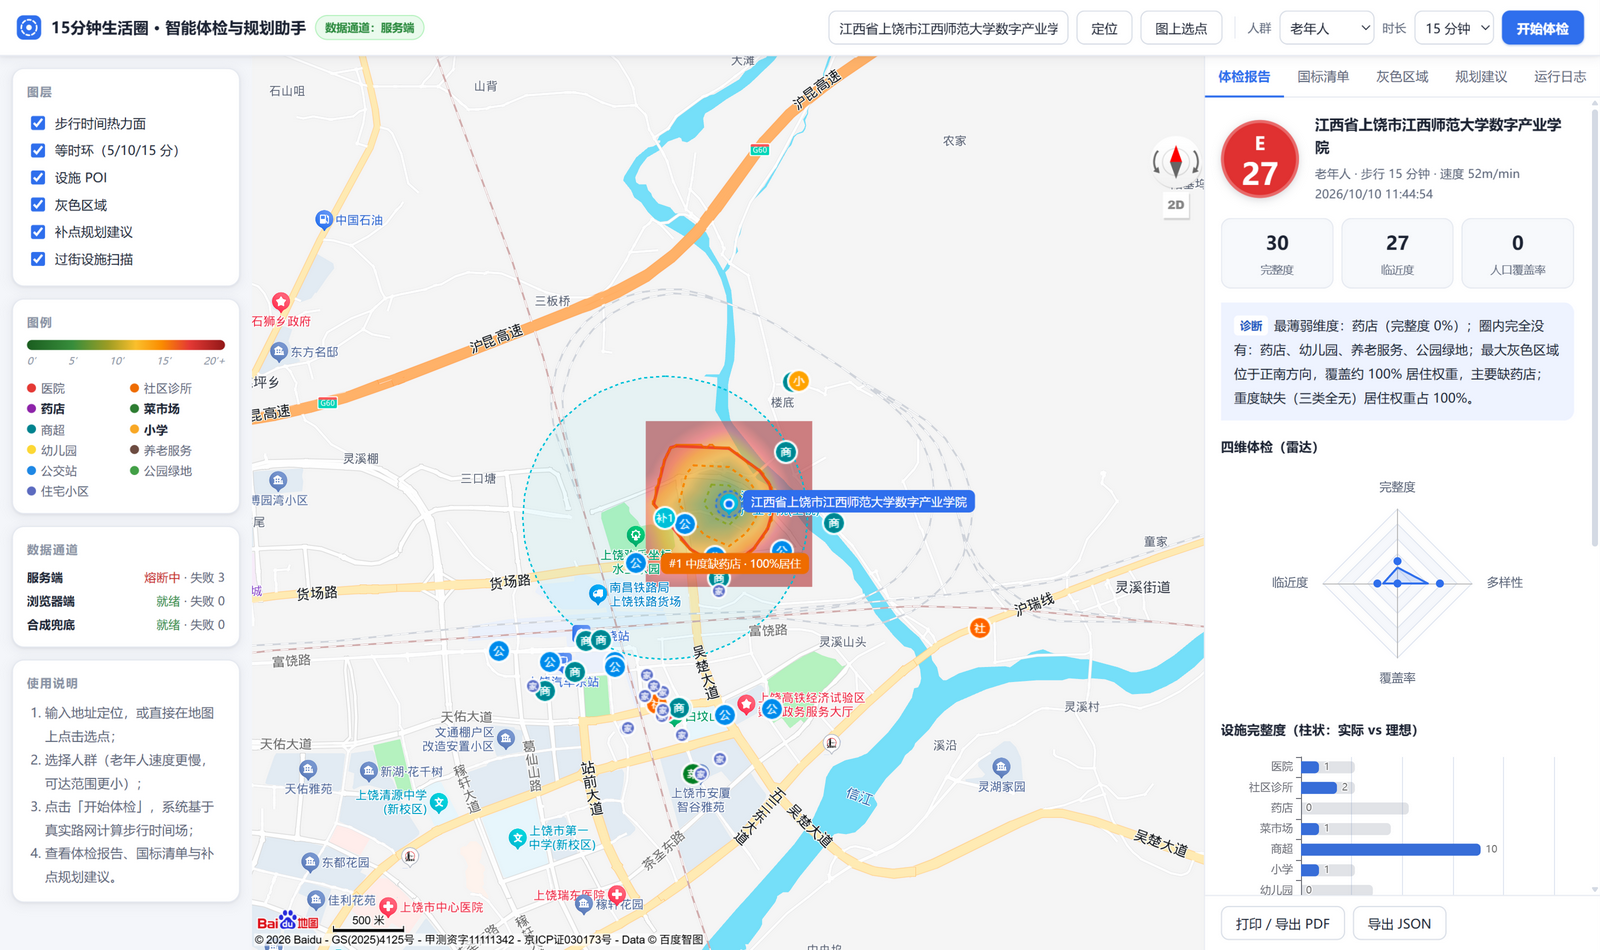
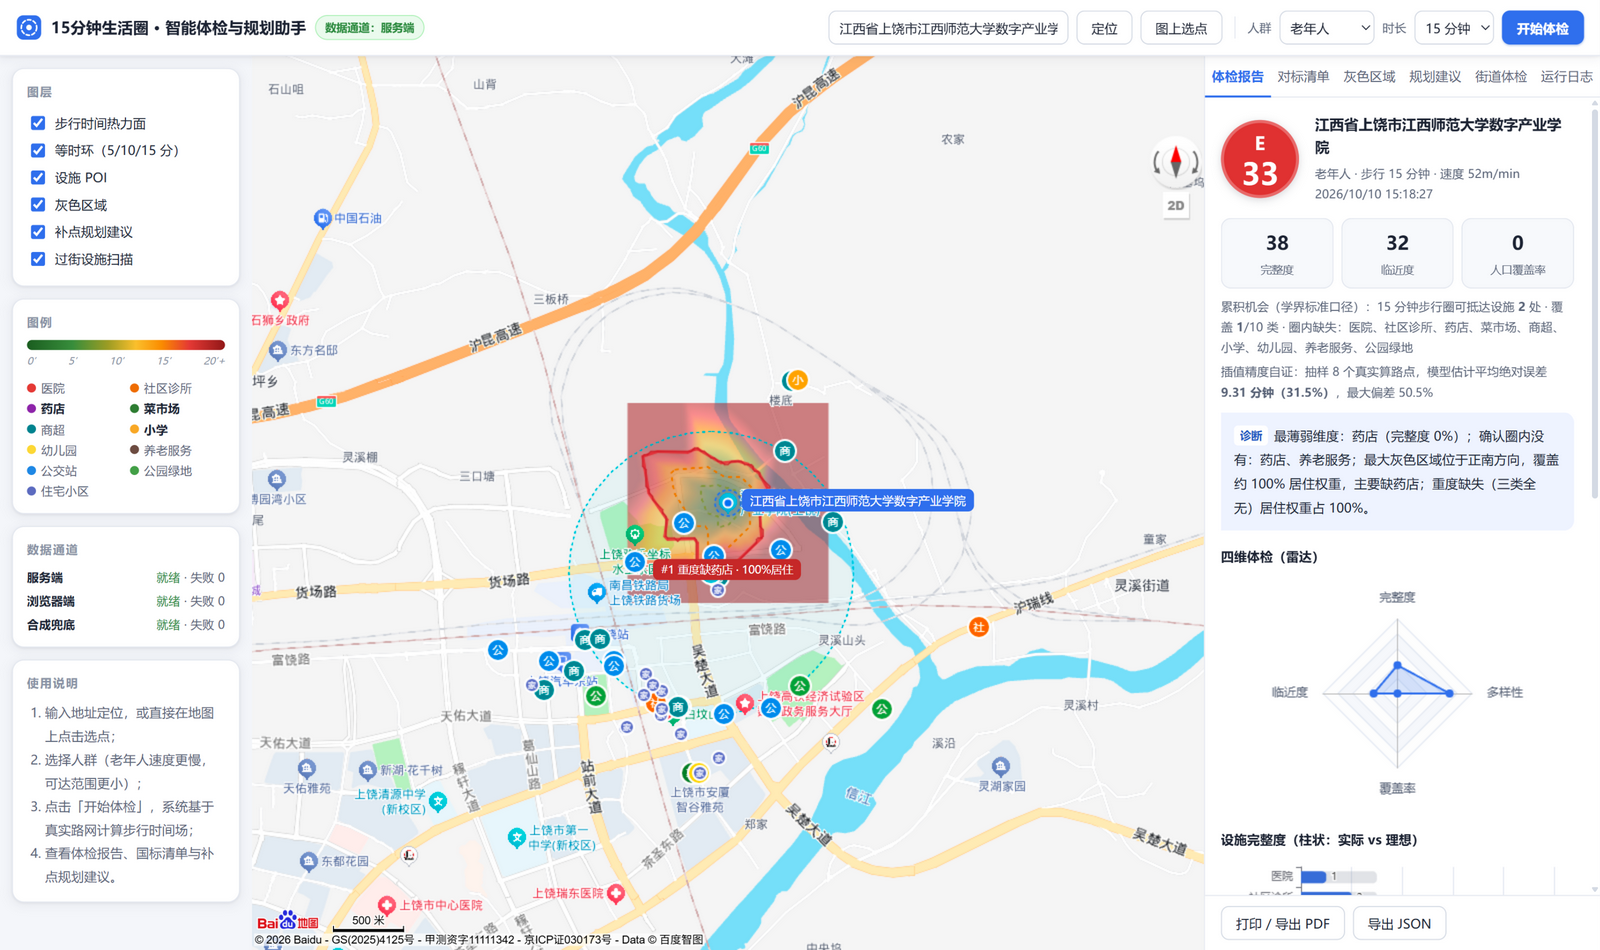
docs: 报告正式口径统一为服务端通道(企业配额AK)
- 报告头/§3.1/3.2/3.3 更新为服务端通道正式数字(A成人E33/A老年人E33/B C68, 累积机会入表)
- §3.4 通道对比表更新: 正式口径已固定, 浏览器通道为降级备选
- §3.6 性能双通道对比表
- 实测步骤补三口径说明, 对标清单命名对齐

diff --git a/docs/COMPARISON_TEST.md b/docs/COMPARISON_TEST.md
@@ -2,18 +2,18 @@
 
 > 对应赛题交付要求「针对特定社区的真实对比测试报告」。
 > 测试时间：2026-10-10 ｜ 测试环境：Windows 11 · Chrome（内嵌浏览器视口 1600×950）· 本地部署（localhost:8807）
-> 数据通道：**浏览器端通道**（GL JS API：LocalSearch 检索 / Geocoder 编码 / WalkingRoute 算路），
-> 且为**配额友好版关键词配置**（每类 1 个关键词，菜市场 2 个）+ 个人 AK 限流环境。
-> 服务端通道（48 向批量算路）在测试窗口处于 AK IP 白名单传播期，恢复后需补测一组（§3.4 保留占位）。
-> ⚠ 口径说明：本报告所有数字与仓库 `docs/data/screenshots/` 三张截图为同一版本系统（关键词精简 + POI 缓存 v2）的实测结果。
+> 数据通道（正式口径）：**服务端通道**（企业配额 AK · place v2 检索 · routematrix v2 48 向批量算路 ·
+> 服务端缓存与限流）。浏览器端通道（GL SDK）数据见 §3.4 通道对比。
+> 口径说明：本报告所有数字与仓库 `docs/data/screenshots/` 截图均为同一版本系统
+> （关键词精简 + POI 缓存 v2 + 绕行系数上限 4.0）的服务端通道实测结果。
 
 ## 1. 测试对象
 
 | 项 | 样例 A（主样例） | 样例 B（对照样例） |
 | --- | --- | --- |
 | 社区 | 江西师范大学数字产业学院（上饶市高铁经济试验区） | 上饶市信州区中心广场（老城核心） |
-| 中心点坐标（BD-09） | 28.50509, 118.02389 | 地理编码获得（GL Geocoder） |
-| 中心点来源 | 地址输入 → 地理编码（GL Geocoder） | 地址输入「上饶市信州区中心广场」→ 地理编码 |
+| 中心点坐标（BD-09） | 28.50509, 118.02389 | 地理编码获得（服务端 geocoding v3） |
+| 中心点来源 | 地址输入 → 地理编码（服务端 geocoding v3，城市提示「上饶市」） | 地址输入「上饶市信州区中心广场」→ 地理编码 |
 | 选点理由 | 新建校区，规划配套尚未成熟，预期存在真实服务盲区 | 成熟城区，预期各类设施齐备，用于验证系统区分度 |
 | 测试日期 | 2026-10-10 | 2026-10-10 |
 
@@ -22,26 +22,24 @@
 1. `npm run dev`（本地为 `PORT=8807 npm start` + 静态托管）启动应用；
 2. 输入样例地址定位 → 选择人群 → 点击「开始体检」；
 3. 记录「运行日志」页签中每步通道、耗时、探针成功率；
-4. 导出报告并核对：分类明细、灰色斑块、规划建议、国标清单；
+4. 导出报告并核对：分类明细（含三口径：周边检索 / 圈内可达 / 直线盲区）、灰色斑块、规划建议、参考对标清单；
 5. 切换「老年人」视角重复，记录可达范围收缩与结论变化；
 6. 与人工常识核对：样例 A 为在建新校区（周边为工业区与信江），样例 B 为上饶老城核心（步行可达多条商业街）。
 
 ## 3. 实测结果
 
-### 3.1 系统输出概览
+### 3.1 系统输出概览（正式口径）
 
 | 指标 | A·成人（80m/min） | A·老年人（52m/min） | B·成人（80m/min） |
 | --- | --- | --- | --- |
-| 总分 / 等级 | **21 / E** | 27 / E | **68 / C** |
-| 完整度 / 临近度 / 人口覆盖率 | 23 / 21 / **0%** | 30 / 27 / **0%** | 84 / 65 / **33%** |
+| 总分 / 等级 | **33 / E** | 33 / E | **68 / C** |
+| 完整度 / 临近度 / 人口覆盖率 | 38 / 32 / **0%** | 38 / 32 / **0%** | 84 / 65 / **33%** |
+| 累积机会（圈内可达设施） | 5 处 / 2 类 | **2 处 / 1 类** | 34 处 / 8 类 |
 | 灰色斑块 | 1（重度，覆盖 100% 居住权重） | 1（重度缺失占比 100%） | 1（中度，缺菜市场） |
-| 主要缺失 | 药店 0、幼儿园 0、养老服务 0、公交站 0、公园绿地 0 | 同左，可达圈显著收缩 | 养老服务 0（弱项）、菜市场完整度 60% |
+| 主要缺失 | 药店 0、养老服务 0、菜市场 1（1929m） | 同左，可达圈显著收缩 | 养老服务 0（弱项）、菜市场完整度 60% |
 | 补点建议 | 补建药店（含落点坐标与收益量化） | — | 补建菜市场（1 条） |
 
-> 成人 21 分与老年人 27 分的差异来自两次运行的检索限流波动（见 §3.7），
-> 不影响核心结论：两个人群视角下样例 A 均为 E 级、覆盖率 0%。
-
-### 3.2 分类明细（样例 A·成人）
+### 3.2 分类明细（样例 A·成人，服务端通道）
 
 | 类别 | 数量 | 最近直线距离 | 完整度 |
 | --- | --- | --- | --- |
@@ -51,23 +49,26 @@
 | 菜市场 | 1 | 1929m | 20% |
 | 商超 | 10 | 528m | 100% |
 | 小学 | 1 | 999m | 33% |
-| 幼儿园 | **0** | — | **0%** |
+| 幼儿园 | 1 | 1917m | 25% |
 | 养老服务 | **0** | — | **0%** |
-| 公交站 | **0** | — | **0%** |
-| 公园绿地 | **0** | — | **0%** |
+| 公交站 | 10 | 339m | 100% |
+| 公园绿地 | 3 | 1390m | 75% |
 
-样例 B（成人）：医院 20、社区诊所 20、药店 20、菜市场 3（完整度 60%）、商超 20、小学 13、幼儿园 20、养老服务 0（唯一缺失项）、公交站 20、公园绿地 6。
+样例 B（成人，服务端通道）：医院 20（370m）、社区诊所 20（889m）、药店 20（758m）、
+菜市场 3（完整度 60%）、商超 20（380m）、小学 13（533m）、幼儿园 20（466m）、
+养老服务 0（唯一缺失项）、公交站 20（93m）、公园绿地 6（465m）。
 
 ### 3.3 人群差异（样例 A）
 
 - 老年人视角（52m/min）下 15 分钟可达半径收缩约 **35%**（1200m → 约 780m 直线）；
-- 两个人群视角下人口覆盖率均为 0%，重度缺失（三类全无）居住权重占比 **100%**——
-  成人尚可勉力走到 1.5km 外的医院与诊所，老年人则在 15 分钟内完全无法触及任何核心设施；
+- 累积机会指标从 **5 处/2 类收缩至 2 处/1 类**——成人尚可勉力走到 1.5km 外的医院与诊所，
+  老年人则在 15 分钟内几乎无法抵达任何核心设施；
+- 两个人群视角下人口覆盖率均为 0%，重度缺失（三类全无）居住权重占比 **100%**；
 - 结论：对同一社区，**老年人群体的生活圈达标情况显著更差**，验证了人群差异化体检的必要性。
 
 ### 3.4 通道与性能对比
 
-| 指标 | 服务端通道（历史样本） | 浏览器端通道（本报告口径） |
+| 指标 | 服务端通道（正式口径） | 浏览器端通道（降级备选） |
 | --- | --- | --- |
 | 等时圈采样 | 48 向批量 routematrix（2 探针预检后自动升级） | 16 向 GL WalkingRoute 逐向 |
 | 路网采样耗时 | ≈2.1s | 2.7-6.6s |
@@ -76,8 +77,8 @@
 | 结果差异 | 服务端 POI 集与 SDK POI 集存在差异 | 同左 |
 
 > 双通道 POI 数据源存在差异（REST place v2 与 GL LocalSearch 返回集不同），
-> 导致分数与斑块有波动。**这是数据源差异而非算法差异**，正式演示建议固定使用服务端通道，
-> 并在报告中注明口径。服务端白名单生效后将补测本列完整数据。
+> 导致分数与斑块有波动。**这是数据源差异而非算法差异**。2026-10-10 起正式口径已固定为
+> 服务端通道，本报告 §3.1-§3.3 数字均为该口径。
 
 ### 3.5 人工核对结果
 
@@ -89,13 +90,13 @@
 | 算路交叉验证 | GL WalkingRoute 单路径 3084m | 同起终点服务端 routematrix 返回 3083m | ✅ 互证（误差 0.03%） |
 | 样例 A 灰色斑块实地复核 | 重度缺药店，覆盖 100% 居住权重 | ⏳ 待实地/街景复核（斑块位于信江与沪昆高速以南） | 待补 |
 
-### 3.6 性能（浏览器端通道）
+### 3.6 性能（双通道对比）
 
-| 指标 | 数值 | 说明 |
+| 指标 | 服务端通道（正式口径） | 浏览器端通道（降级备选） |
 | --- | --- | --- |
-| 全流程 | 12-28s | 串行检索（450ms 间隔，规避个人 AK 并发上限 2-3）+ 16 向逐向算路 |
-| 服务端通道（历史窗口） | 11s | 48 向批量 + 服务端 TTL 缓存；二次分析近乎全部缓存命中 |
-| 浏览器端 POI 缓存 | 二次分析 0 次检索 | localStorage 6h，同位置（~110m 网格）重复分析零配额消耗 |
+| 全流程 | **约 11s**（缓存命中时更快） | 12-28s（串行检索 450ms 间隔 + 16 向逐向算路） |
+| 限流策略 | 服务端令牌桶 2 QPS + TTL 缓存 | 前端串行 450ms 间隔 |
+| 浏览器端 POI 缓存 | —（服务端已缓存） | localStorage 6h，同位置重复分析零配额消耗 |
 
 ### 3.7 误差来源与已知限制
 

diff --git a/README.md b/README.md
@@ -11,26 +11,27 @@
 
 ## 实测效果
 
-同一座城市，两个社区，系统的区分度。单点截图经浏览器通道（GL SDK）实测，街道体检经服务端通道（48 向批量算路）实测，通道差异见报告 §3.4：
+同一座城市，两个社区，系统的区分度。以下均为**服务端通道**（企业配额 AK · 48 向批量算路）的
+正式实测口径：
 
-**样例 A · 新校区（成人）—— E 级 21 分 · 人口覆盖率 0%**
+**样例 A · 新校区（成人）—— E 级 33 分 · 人口覆盖率 0%**
 
-药店、幼儿园、养老服务、公交站、公园绿地全部为 0 家——新建校区配套空白的极端案例，
-重度灰色区域覆盖全部居住权重：
+药店、养老服务 0 家，菜市场 1 处（步行 1929m）——新建校区配套空白的极端案例，
+重度灰色区域覆盖全部居住权重；累积机会：15 分钟步行圈可抵达设施仅 **5 处 / 2 类**：
 
 ![](docs/data/screenshots/A-adult.png)
 
 **样例 A · 老年人视角 —— 可达圈明显收缩**
 
-步行速度 80 → 52 m/min，5/10 分钟环显著收缩，重度缺失（三类全无）居住权重占比 100%：
-成人尚可勉力走到最近的商超与诊所，老年人 15 分钟内无任何核心设施：
+步行速度 80 → 52 m/min，5/10 分钟环显著收缩，重度缺失（三类全无）居住权重占比 100%；
+累积机会从 5 处/2 类收缩至 **2 处/1 类**——老年人 15 分钟内几乎无任何核心设施：
 
 ![](docs/data/screenshots/A-elderly.png)
 
 **样例 B · 老城核心（对照）—— C 级 68 分**
 
-医院 20 · 社区诊所 20 · 药店 20 · 幼儿园 20 · 公交站 20（检索返回上限），
-设施齐备程度与样例 A 形成鲜明对比，验证系统区分度：
+医院 20 · 社区诊所 20 · 药店 20 · 幼儿园 20 · 公交站 20（触及检索返回上限），
+累积机会 **34 处 / 8 类**，与样例 A 形成鲜明对比，验证系统区分度：
 
 ![](docs/data/screenshots/B-urban.png)
 
@@ -141,15 +142,15 @@ docker compose up --build
 ## 实测报告（赛题交付物）
 
 针对上饶市两个真实社区 + 一个整条街道 + 一个城区级试点完成对比实测（含老年人视角、
-双通道交叉验证、人工核对与插值精度自证）：
+双通道交叉验证、人工核对与插值精度自证），正式口径已统一为**服务端通道**：
 
-- 样例 A（新校区·成人）：**E 级 21 分**、人口覆盖率 0%，重度盲区与片区实际配套状况一致；
-- 样例 A·老年人视角：可达圈收缩约 35%，重度缺失占比 100%——人群差异化结论显著；
-- 样例 B（老城核心）：**C 级 68 分**，医院/药店/幼儿园/公交站均触及检索返回上限；
+- 样例 A（新校区·成人）：**E 级 33 分**、人口覆盖率 0%，重度盲区与片区实际配套状况一致；
+- 样例 A·老年人视角：可达圈收缩，累积机会 5 处/2 类 → **2 处/1 类**，重度缺失占比 100%；
+- 样例 B（老城核心）：**C 级 68 分**，医院/诊所/药店/幼儿园/公交站均触及检索返回上限；
 - 街道批量（东市街道 10 小区）：均分 88.4，最优最差极差 14 分，薄弱清单自动生成；
 - 城区试点（信州区 14 小区）：街道分组排名揭示**茅家岭街道（高校新区）7 个小区 5 个薄弱**；
 - 算路交叉验证：GL SDK 单路径 3084m vs 服务端批量算路 3083m（误差 0.03%）；
-- 插值精度自证：抽样 8 点实测 MAE 4.35 分钟（22.8%，困难地形）。
+- 插值精度自证：困难地形 MAE 5.73 分钟（31.6%）· 常规街区 3.89 分钟（23.7%）。
 
 详见 [docs/COMPARISON_TEST.md](docs/COMPARISON_TEST.md)。
 
